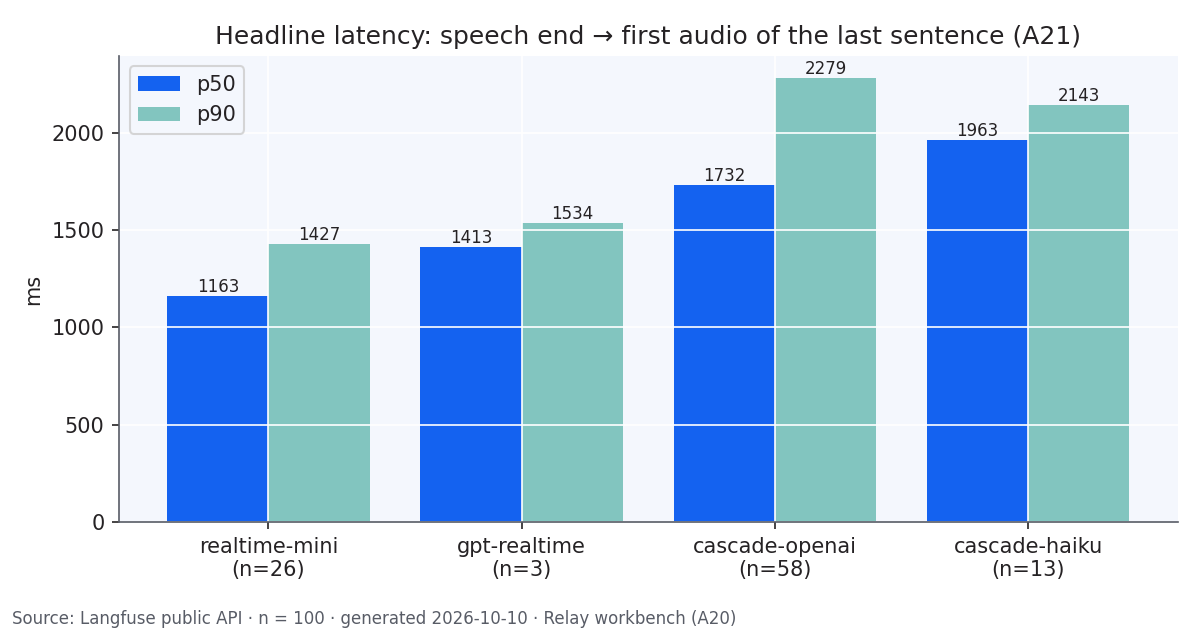
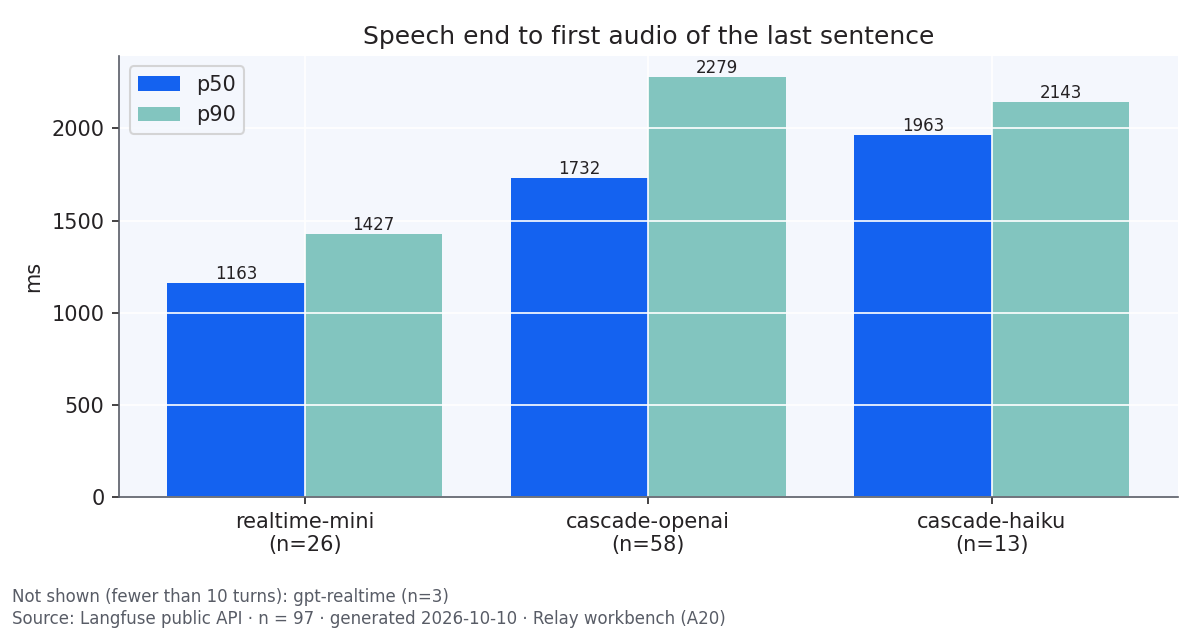
docs(charts): drop n<10 setups from latency chart; single-panel chrF vs latency with plain labels

diff --git a/scripts/langfuse/charts.py b/scripts/langfuse/charts.py
@@ -86,22 +86,30 @@ def main() -> None:
     order = sorted(by, key=lambda s: statistics.median(x["H"] for x in by[s]))
     print(f"turns: {len(turns)} in {len(sess)} sessions; experiment traces: {len(exps)}")
 
-    # 1. headline latency p50/p90 per setup
+    # 1. headline latency p50/p90 per setup (setups with n < MIN_N dropped: too few turns for a stable p50/p90)
+    MIN_N = 10
+    kept = [s for s in order if len(by[s]) >= MIN_N]
+    dropped = [s for s in order if len(by[s]) < MIN_N]
     fig, ax = plt.subplots(figsize=(8, 4.2))
-    xs = range(len(order))
-    p50 = [pct([x["H"] for x in by[s]], 50) for s in order]
-    p90 = [pct([x["H"] for x in by[s]], 90) for s in order]
+    xs = range(len(kept))
+    p50 = [pct([x["H"] for x in by[s]], 50) for s in kept]
+    p90 = [pct([x["H"] for x in by[s]], 90) for s in kept]
     ax.bar([i - 0.2 for i in xs], p50, 0.4, color=C["primary"], label="p50")
     ax.bar([i + 0.2 for i in xs], p90, 0.4, color=C["teal"], label="p90")
     for i, (a5, a9) in enumerate(zip(p50, p90, strict=True)):
         ax.text(i - 0.2, a5, f"{a5:.0f}", ha="center", va="bottom", fontsize=8)
         ax.text(i + 0.2, a9, f"{a9:.0f}", ha="center", va="bottom", fontsize=8)
-    ax.set_xticks(list(xs), [f"{s}\n(n={len(by[s])})" for s in order])
+    ax.set_xticks(list(xs), [f"{s}\n(n={len(by[s])})" for s in kept])
     ax.set_ylabel("ms")
-    ax.set_title("Headline latency: speech end → first audio of the last sentence (A21)")
+    ax.set_title("Speech end to first audio of the last sentence")
     ax.legend()
-    foot(fig, len(turns))
-    save(fig, out, "latency-p50-p90-by-setup.png")
+    if dropped:
+        fig.text(0.01, 0.045, f"Not shown (fewer than {MIN_N} turns): " + ", ".join(f"{s} (n={len(by[s])})" for s in dropped),
+                 fontsize=8, color=C["muted"])
+    foot(fig, sum(len(by[s]) for s in kept))
+    fig.tight_layout(rect=(0, 0.08, 1, 1))
+    p_ = out / "latency-p50-p90-by-setup.png"; fig.savefig(p_, dpi=150); plt.close(fig); print("wrote", p_)
+    print("latency kept:", {s: (len(by[s]), pct([x['H'] for x in by[s]], 50)) for s in kept}, "dropped:", {s: len(by[s]) for s in dropped})
 
     # 2. cascade per-stage breakdown (median ms after speech end, non-early turns only)
     stages = [("stt_final", "STT final"), ("mt_first_token", "MT 1st token"), ("tts_first_byte", "TTS 1st byte"),
@@ -153,16 +161,22 @@ def main() -> None:
         if "H_ms" in v and "chrF" in v:
             pts[setup].append((v["H_ms"], v["chrF"], v.get("src_wer")))
     if pts:
-        fig, (a1, a2) = plt.subplots(1, 2, figsize=(10, 4.2))
+        fig, a1 = plt.subplots(figsize=(8, 4.6))
         for j, (s, p) in enumerate(sorted(pts.items())):
             a1.scatter([x[0] for x in p], [x[1] for x in p], color=PAL[j], label=f"{s} (n={len(p)})", alpha=0.85)
-            w_ = [x for x in p if x[2] is not None]
-            a2.scatter([x[0] for x in w_], [x[2] * 100 for x in w_], color=PAL[j], label=s, alpha=0.85)
-        a1.set(xlabel="headline H (ms)", ylabel="chrF", title="Translation quality vs latency")
-        a2.set(xlabel="headline H (ms)", ylabel="source WER (%)", title="Source ASR WER vs latency")
+        a1.set(xlabel="Latency, speech end to first audio (ms)", ylabel="Translation quality (chrF, 0-100)",
+               title="Translation quality vs latency")
         a1.legend(fontsize=8)
+        fig.text(0.01, 0.045, "chrF compares each translation to one reference; low scores can be valid rewordings.",
+                 fontsize=8, color=C["muted"])
         foot(fig, sum(len(p) for p in pts.values()), "Langfuse scores (experiment traces)")
-        save(fig, out, "quality-vs-latency.png")
+        fig.tight_layout(rect=(0, 0.08, 1, 1))
+        p_ = out / "quality-vs-latency.png"; fig.savefig(p_, dpi=150); plt.close(fig); print("wrote", p_)
+        low = sorted(((v["chrF"], tid_) for tid_, v in sc.items() if "chrF" in v))[:4]
+        for c_, tid_ in low:
+            t_ = exps[tid_]
+            print("LOWCHRF", round(c_, 1), (t_["metadata"] or {}).get("setup"), "| in:", t_.get("input"), "| out:", t_.get("output"),
+                  "| meta:", {k: v for k, v in (t_["metadata"] or {}).items() if k not in ("models",)})
 
     # 5. drift: latency over time within the longest session(s)
     per = collections.defaultdict(list)
